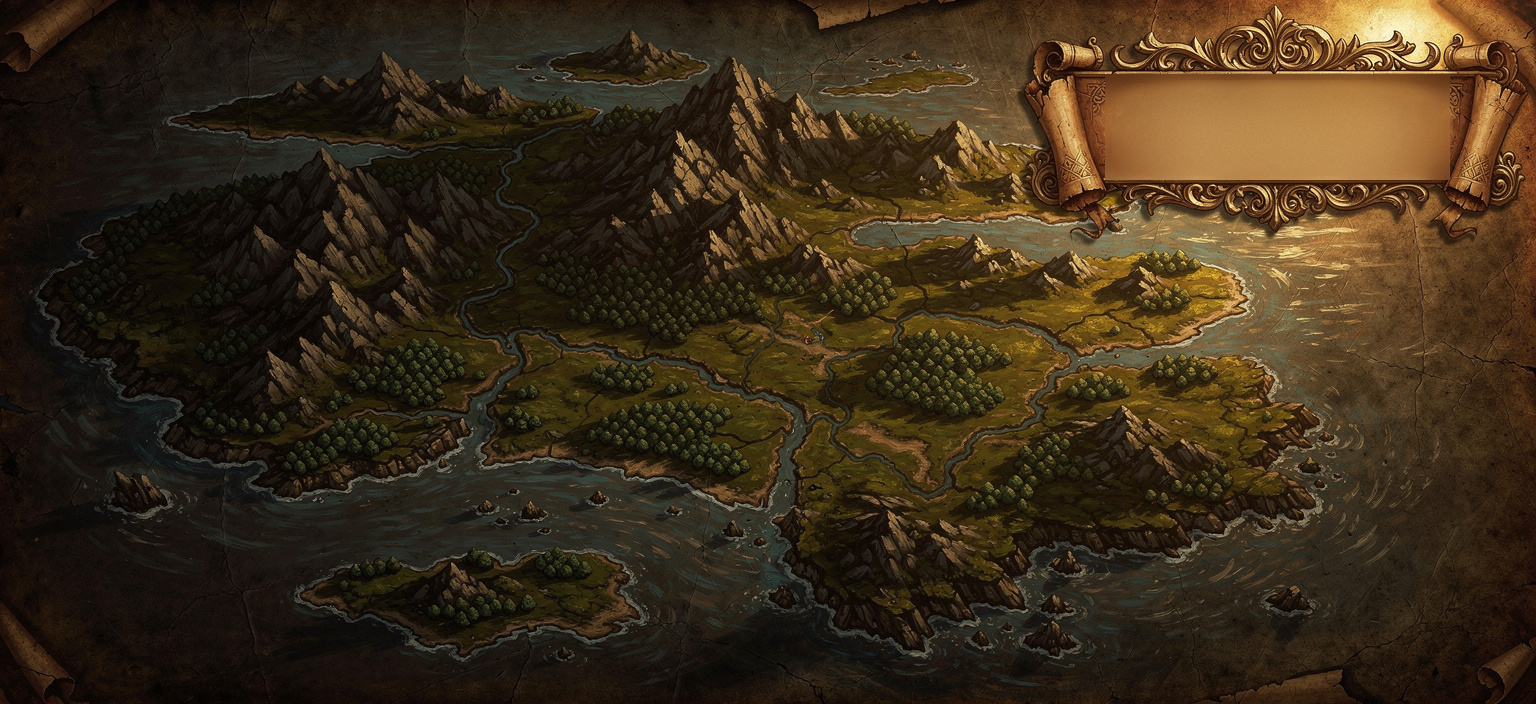
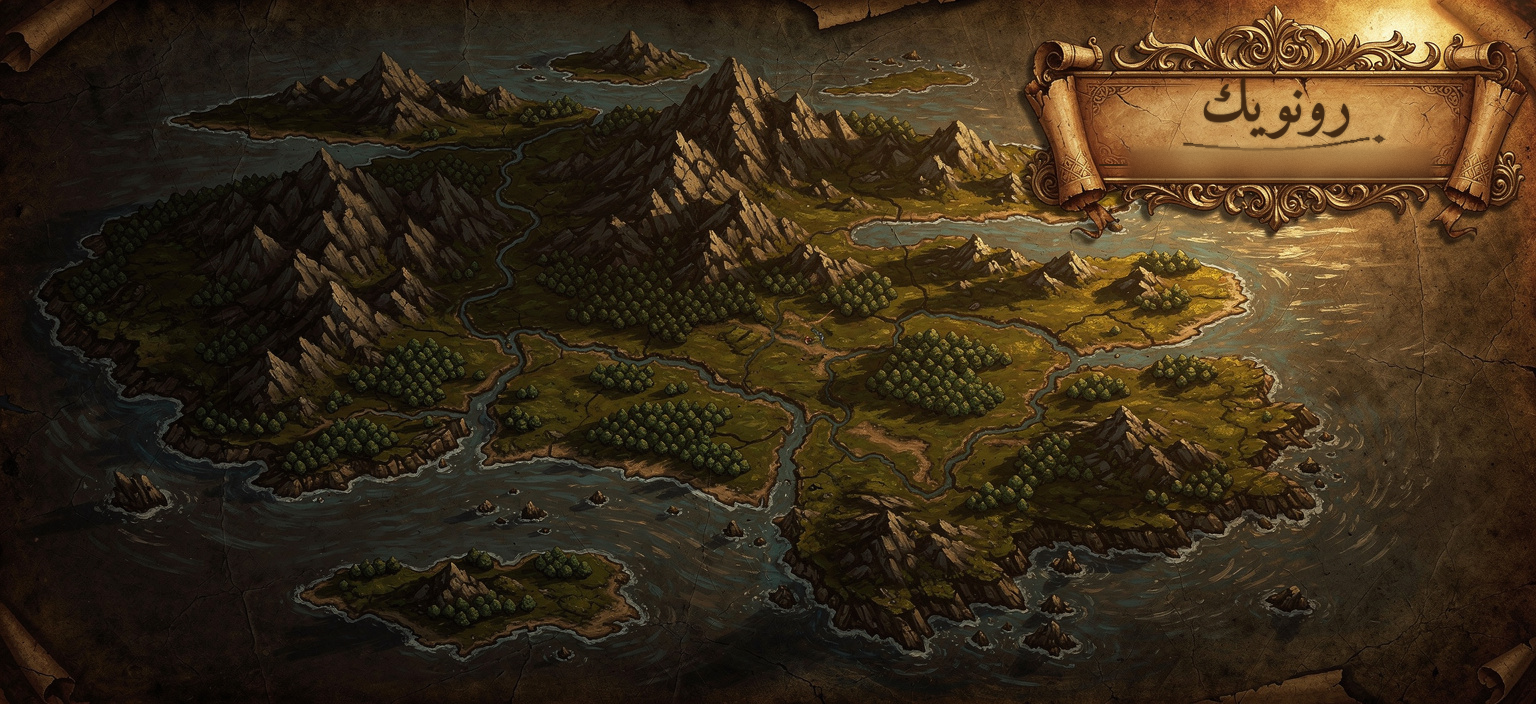
art: restore the script line above the region name
Trikzos wanted the script above the region name — it is world-building, not a
bug. I removed it because the gate called it a defect; that was my call to
make and I got it wrong. It is back exactly as drawn, flourish and all.

What stays removed is the BAKED English title: one plate serves every region,
so a painted-in 'THE FALLOW REACH' is wrong on regions 2-4. The region name is
now painted by code into the lower half of the cartouche, under the script.

visual_gate no longer treats decorative lettering in artwork as a defect. It
judges painted lettering as art and rendered UI text as text — the rule that
was missing when it flagged this.

Claude-Session: https://claude.ai/code/session_015Shdp6NGvGB2VxUJf9XVMx

Changed region(s): [[0.7188, 0.0938, 0.9375, 0.2812]]

diff --git a/client/scripts/MapScene.cs b/client/scripts/MapScene.cs
@@ -417,7 +417,8 @@ public partial class MapScene : Control
         _mapContainer.AddChild(_lineDrawer);
 
         // Region name banner — always visible overlay, outside the pannable container
-        // The region name is painted INTO the plate's cartouche, which is what
+        // The region name is painted into the lower half of the cartouche, under
+        // the script line that belongs to the art. This is what
         // that ornate empty scroll was always drawn for. It lives inside the
         // pannable container so it stays welded to the banner under pan and
         // zoom, exactly like the map nodes.
@@ -427,11 +428,11 @@ public partial class MapScene : Control
             VerticalAlignment = VerticalAlignment.Center,
             AutowrapMode = TextServer.AutowrapMode.Off,
             MouseFilter = Control.MouseFilterEnum.Ignore,
-            Size = new Vector2(332, 96),
-            Position = new Vector2(510 - 166, -224 - 48)
+            Size = new Vector2(332, 34),
+            Position = new Vector2(510 - 166, -189 - 17)
         };
         _regionBanner.SetAnchorsPreset(Control.LayoutPreset.TopLeft);
-        ThemeTokens.ApplyHeaderFont(_regionBanner, 34);
+        ThemeTokens.ApplyHeaderFont(_regionBanner, 22);
         // Ink on parchment, not gold on black — it is sitting on the scroll now.
         _regionBanner.AddThemeColorOverride("font_color", new Color(0.24f, 0.16f, 0.09f, 0.96f));
         _regionBanner.AddThemeConstantOverride("outline_size", 0);

diff --git a/tools/visual_gate.py b/tools/visual_gate.py
@@ -56,9 +56,12 @@ Check specifically for:
    is hard or impossible to read.
 3. Text or a UI element that spills outside the card/panel/button it belongs to.
 4. Text that is illegible from low contrast against its background.
-5. Non-English text, garbled characters, or gibberish glyphs baked into art or
-   banners (this game is English-only — any foreign script or nonsense text in a
-   texture is a bug, not a stylistic choice).
+5. Garbled or corrupted glyphs in UI TEXT the game renders — clipped, boxed,
+   or tofu characters where readable English was intended.
+   Do NOT flag decorative lettering that is part of the painted ART — the map
+   cartouche carries a stylised script line above the region name, and runic or
+   foreign-looking script in artwork is deliberate world-building in this game,
+   not a defect. Judge painted lettering as art; judge rendered UI text as text.
 6. Obviously broken, placeholder-looking, or blank/missing art where art is expected.
 7. Layout that is severely unbalanced — most of the screen empty while content is
    crammed into a small corner — such that it would look unfinished to a player.
